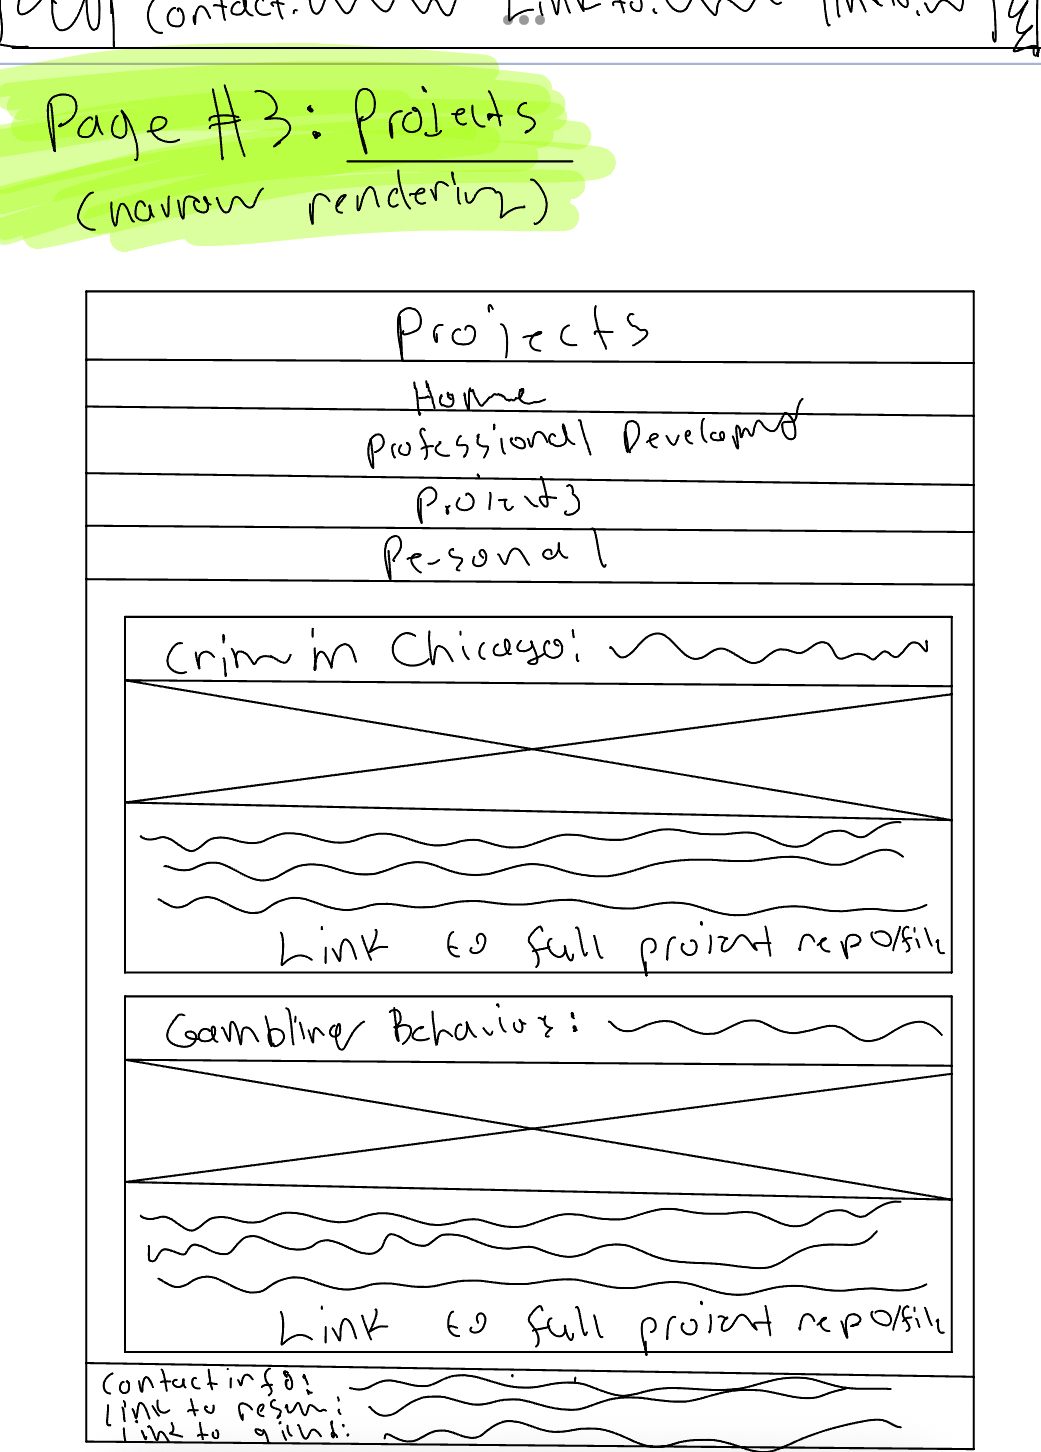
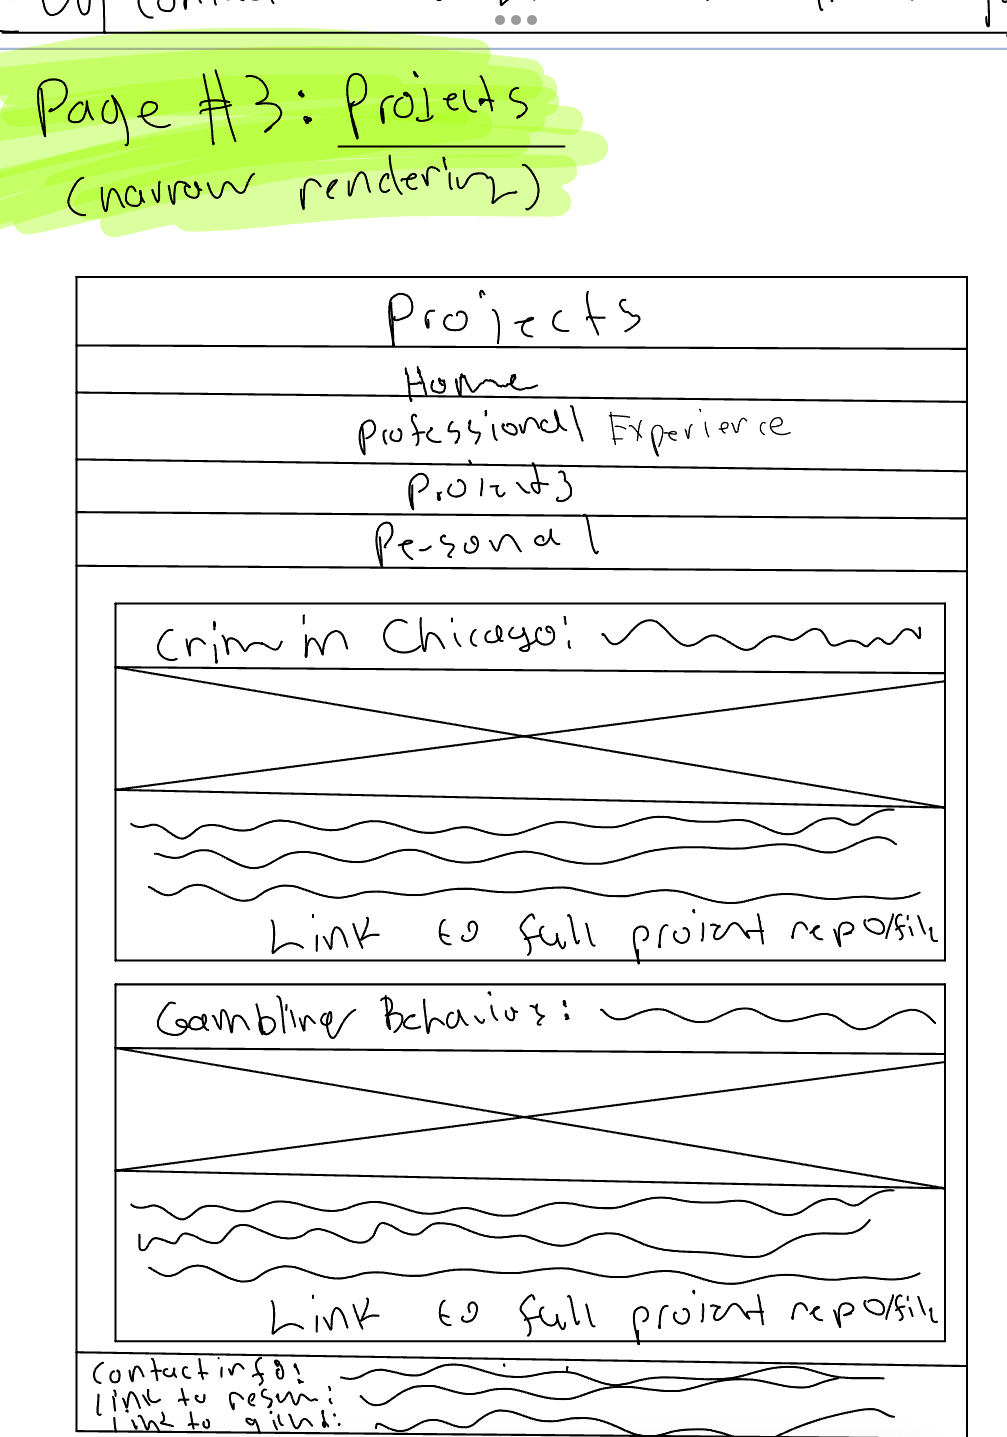
final edits

Changed region(s): [[0.0, 0.0, 1.0, 1.0], [0.4002, 0.7655, 0.6465, 0.7961]]

diff --git a/design-plan/milestone-1.md b/design-plan/milestone-1.md
@@ -286,7 +286,7 @@ NOTE: the labeling is contained in the "alt" for each image as well as in each i
 > Label each sketch, so that we understand what page we are reviewing. (1 short phrase per sketch)
 
 
-Note: a couple of times, some personal notes about where I would put a flexbox pop up. That was NOT intended to be a CSS or HTML annotation - it was only for my personal brainstorming and I just forgot to delete it before processing and uploading.
+Note: in the first couple of home page sketches, some personal notes about where I would put a flexbox pop up. That was NOT intended to be a CSS or HTML annotation - it was only for my personal brainstorming and I just forgot to delete it before processing and uploading. Please ignore it.
 
 Page 1/Home page: narrow responsive design
 ![Image of home screen viewed on a narrow screen/mobile device)](images/home-narrow.jpg)